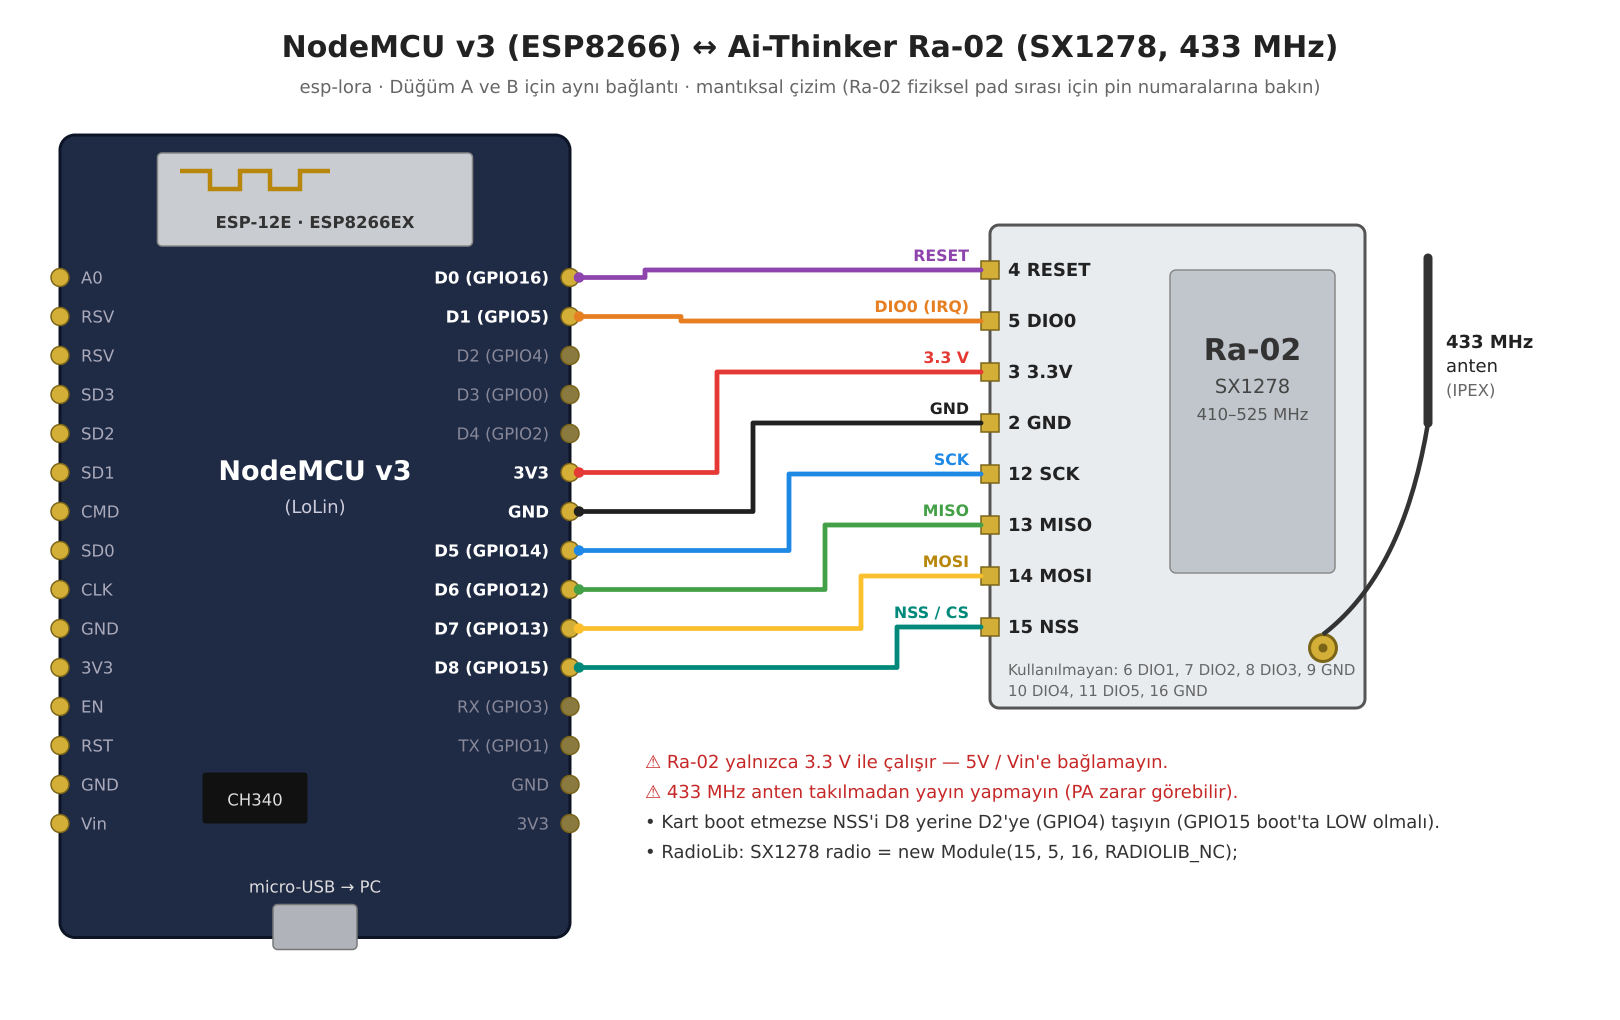
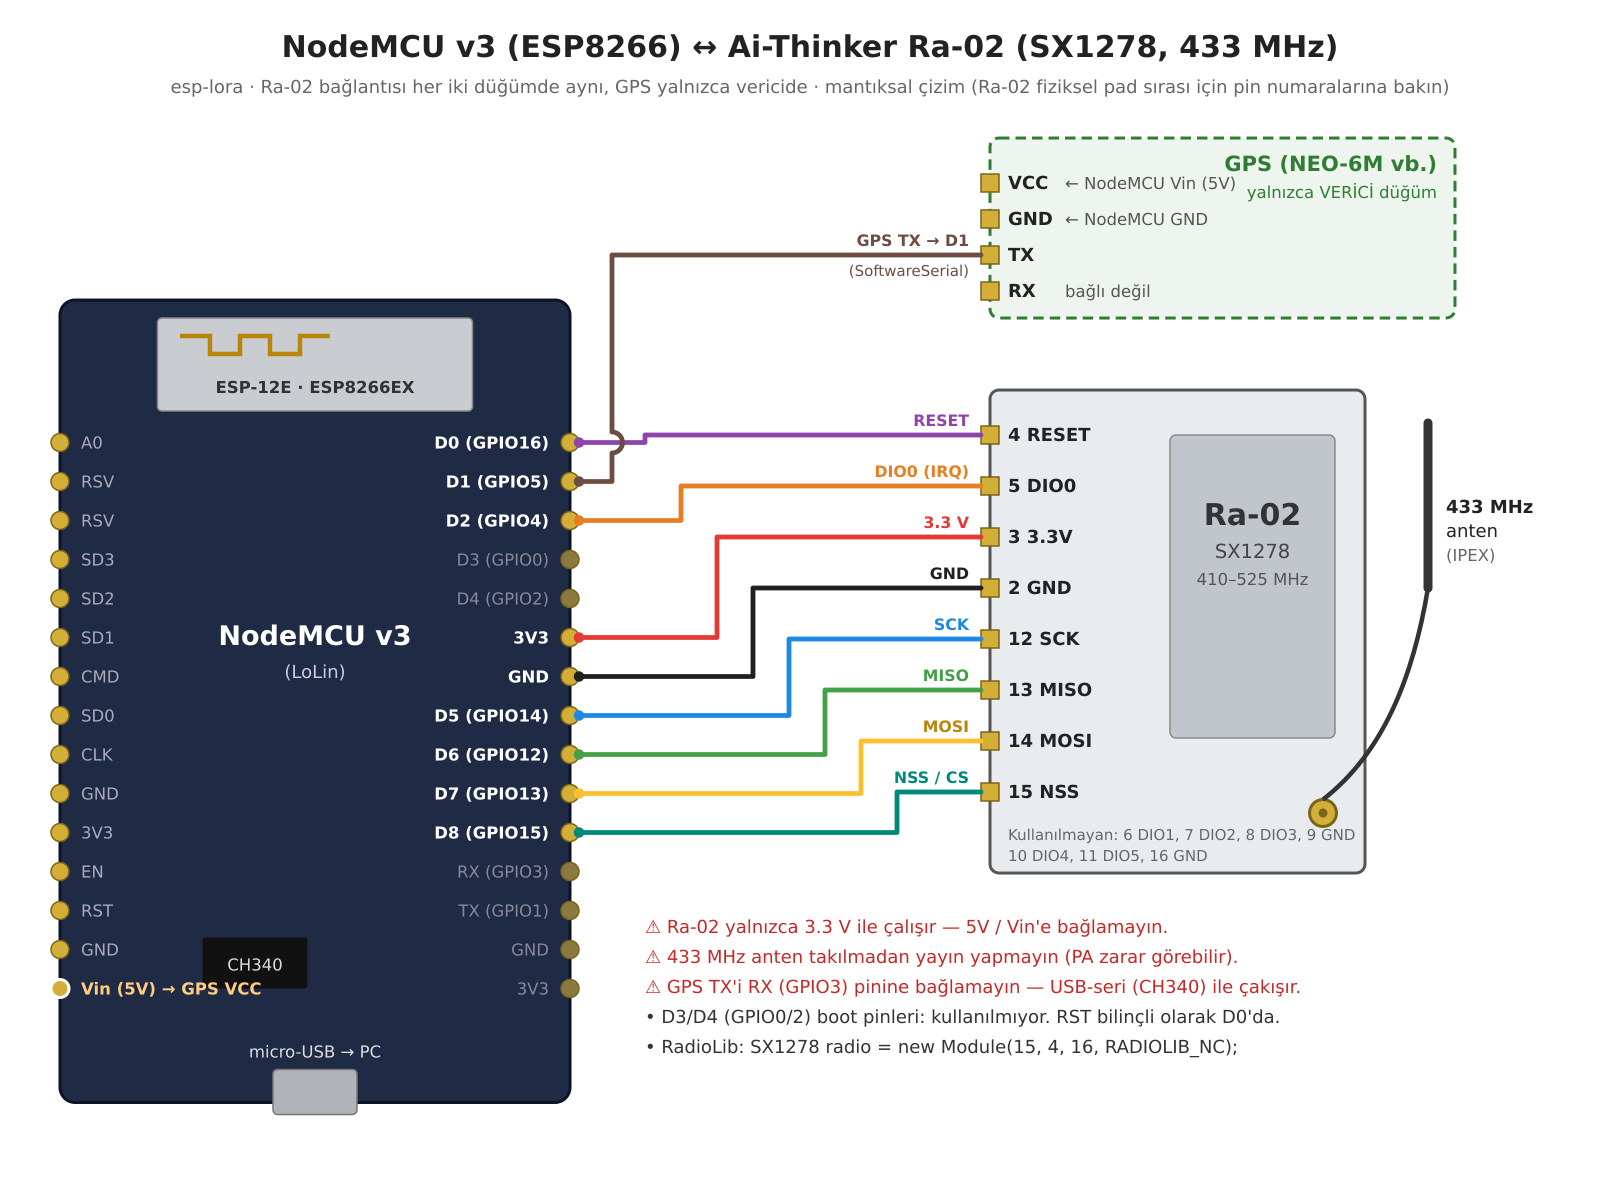
hardware: RST→D0, DIO0→D2, verici için GPS (TX→D1) eklendi

Changed region(s): [[0.0309, 0.1216, 0.9568, 0.9422], [0.0926, 0.0304, 0.8951, 0.0912]]

diff --git a/tools/wiring_diagram.py b/tools/wiring_diagram.py
@@ -4,7 +4,7 @@
 Kullanım: python3 tools/wiring_diagram.py > hardware/nodemcu-v3-ra02-wiring.svg
 """
 
-W, H = 1080, 680
+W, H = 1080, 790
 FONT = "DejaVu Sans, Arial, sans-serif"
 
 # NodeMCU v3 header'ları (anten üstte, USB altta)
@@ -19,7 +19,7 @@ GPIO = {"D0": "GPIO16", "D1": "GPIO5", "D2": "GPIO4", "D3": "GPIO0",
 # (NodeMCU pini, Ra-02 pini, Ra-02 pin no, renk, etiket)
 WIRES = [
     ("D0", "RESET", 4, "#8e44ad", "RESET"),
-    ("D1", "DIO0", 5, "#e67e22", "DIO0 (IRQ)"),
+    ("D2", "DIO0", 5, "#e67e22", "DIO0 (IRQ)"),
     ("3V3", "3.3V", 3, "#e53935", "3.3 V"),
     ("GND", "GND", 2, "#212121", "GND"),
     ("D5", "SCK", 12, "#1e88e5", "SCK"),
@@ -31,11 +31,11 @@ UNUSED = [("ANT", 1), ("DIO1", 6), ("DIO2", 7), ("DIO3", 8),
           ("GND", 9), ("DIO4", 10), ("DIO5", 11), ("GND", 16)]
 
 # geometri
-BX, BY, BW = 40, 90, 340          # NodeMCU kartı
+BX, BY, BW = 40, 200, 340          # NodeMCU kartı
 PITCH, PY0 = 26, BY + 95
 BH = PY0 - BY + PITCH * 15 + 50
 RX0 = BX + BW                      # sağ header x
-MX, MY, MW = 660, 150, 250         # Ra-02 modülü
+MX, MY, MW = 660, 260, 250         # Ra-02 modülü
 MPITCH = 34
 
 
@@ -53,7 +53,7 @@ out = [f'<svg xmlns="http://www.w3.org/2000/svg" width="{W}" height="{H}" '
        f'<rect width="{W}" height="{H}" fill="#ffffff"/>',
        text(W / 2, 38, "NodeMCU v3 (ESP8266)  ↔  Ai-Thinker Ra-02 (SX1278, 433 MHz)",
             20, "middle", "bold"),
-       text(W / 2, 62, "esp-lora · Düğüm A ve B için aynı bağlantı · mantıksal çizim "
+       text(W / 2, 62, "esp-lora · Ra-02 bağlantısı her iki düğümde aynı, GPS yalnızca vericide · mantıksal çizim "
             "(Ra-02 fiziksel pad sırası için pin numaralarına bakın)", 12, "middle", fill="#666")]
 
 # --- NodeMCU kartı
@@ -70,12 +70,16 @@ out.append(text(BX + BW / 2, BY + BH - 30, "micro-USB → PC", 11, "middle", fil
 out.append(text(BX + BW / 2, BY + 230, "NodeMCU v3", 18, "middle", "bold", "#fff"))
 out.append(text(BX + BW / 2, BY + 252, "(LoLin)", 12, "middle", fill="#ccd"))
 
-used_mcu = {w[0] for w in WIRES}
+used_mcu = {w[0] for w in WIRES} | {"D1"}
 right_y = {}
 for i, p in enumerate(LEFT_PINS):
     y = PY0 + i * PITCH
     out.append(f'<circle cx="{BX}" cy="{y}" r="6" fill="#d4af37" stroke="#7a6418"/>')
-    out.append(text(BX + 14, y + 4, p, 11, fill="#aab"))
+    if p == "Vin":
+        out.append(f'<circle cx="{BX}" cy="{y}" r="6" fill="#d4af37" stroke="#fff" stroke-width="2"/>')
+        out.append(text(BX + 14, y + 4, "Vin (5V) → GPS VCC", 11, weight="bold", fill="#ffcc80"))
+    else:
+        out.append(text(BX + 14, y + 4, p, 11, fill="#aab"))
 for i, p in enumerate(RIGHT_PINS):
     y = PY0 + i * PITCH
     # 3V3 ve GND'den yalnızca ilkini kullan
@@ -129,13 +133,35 @@ for i, (mp, rp, num, col, lbl) in enumerate(WIRES):
     out.append(f'<circle cx="{x_start}" cy="{y1}" r="3.5" fill="{stroke}"/>')
     out.append(text(MX - 14, y2 - 6, lbl, 10.5, "end", "bold", col if col != "#fbc02d" else "#b8860b"))
 
+# --- GPS modülü (yalnızca verici düğüm)
+GX, GY, GW, GH = MX, 92, MW + 60, 120
+GCOL = "#6d4c41"
+out.append(f'<rect x="{GX}" y="{GY}" width="{GW}" height="{GH}" rx="6" fill="#eef5ee" stroke="#2e7d32" stroke-width="2" stroke-dasharray="7 4"/>')
+out.append(text(GX + GW - 12, GY + 22, "GPS (NEO-6M vb.)", 14, "end", "bold", "#2e7d32"))
+out.append(text(GX + GW - 12, GY + 40, "yalnızca VERİCİ düğüm", 11, "end", fill="#2e7d32"))
+gp = {"VCC": GY + 30, "GND": GY + 54, "TX": GY + 78, "RX": GY + 102}
+notes_g = {"VCC": "← NodeMCU Vin (5V)", "GND": "← NodeMCU GND", "TX": "", "RX": "bağlı değil"}
+for name, y in gp.items():
+    out.append(f'<rect x="{GX-6}" y="{y-6}" width="12" height="12" fill="#d4af37" stroke="#7a6418"/>')
+    out.append(text(GX + 12, y + 4, name, 12, weight="bold"))
+    if notes_g[name]:
+        out.append(text(GX + 50, y + 4, notes_g[name], 11, fill="#555"))
+# TX -> D1 kablosu (D0 hattının üzerinden atlama ile)
+y1 = right_y["D1"]; yt = gp["TX"]; xv = RX0 + 28; yh = right_y["D0"]
+out.append(f'<path d="M{RX0+6} {y1} H{xv} V{yh+7} A7 7 0 0 0 {xv} {yh-7} V{yt} H{GX-6}" fill="none" '
+           f'stroke="{GCOL}" stroke-width="3.2" stroke-linejoin="round" stroke-linecap="round"/>')
+out.append(f'<circle cx="{RX0+6}" cy="{y1}" r="3.5" fill="{GCOL}"/>')
+out.append(text(GX - 14, yt - 6, "GPS TX → D1", 10.5, "end", "bold", GCOL))
+out.append(text(GX - 14, yt + 14, "(SoftwareSerial)", 10, "end", fill=GCOL))
+
 # --- notlar
 ny = BY + BH + 2
 notes = [
     ("⚠ Ra-02 yalnızca 3.3 V ile çalışır — 5V / Vin'e bağlamayın.", "#c62828"),
     ("⚠ 433 MHz anten takılmadan yayın yapmayın (PA zarar görebilir).", "#c62828"),
-    ("• Kart boot etmezse NSS'i D8 yerine D2'ye (GPIO4) taşıyın (GPIO15 boot'ta LOW olmalı).", "#333"),
-    ("• RadioLib:  SX1278 radio = new Module(15, 5, 16, RADIOLIB_NC);", "#333"),
+    ("⚠ GPS TX'i RX (GPIO3) pinine bağlamayın — USB-seri (CH340) ile çakışır.", "#c62828"),
+    ("• D3/D4 (GPIO0/2) boot pinleri: kullanılmıyor. RST bilinçli olarak D0'da.", "#333"),
+    ("• RadioLib:  SX1278 radio = new Module(15, 4, 16, RADIOLIB_NC);", "#333"),
 ]
 for i, (s, c) in enumerate(notes):
     out.append(text(RX0 + 50, MY + MH + 40 + i * 20, s, 12, fill=c))
